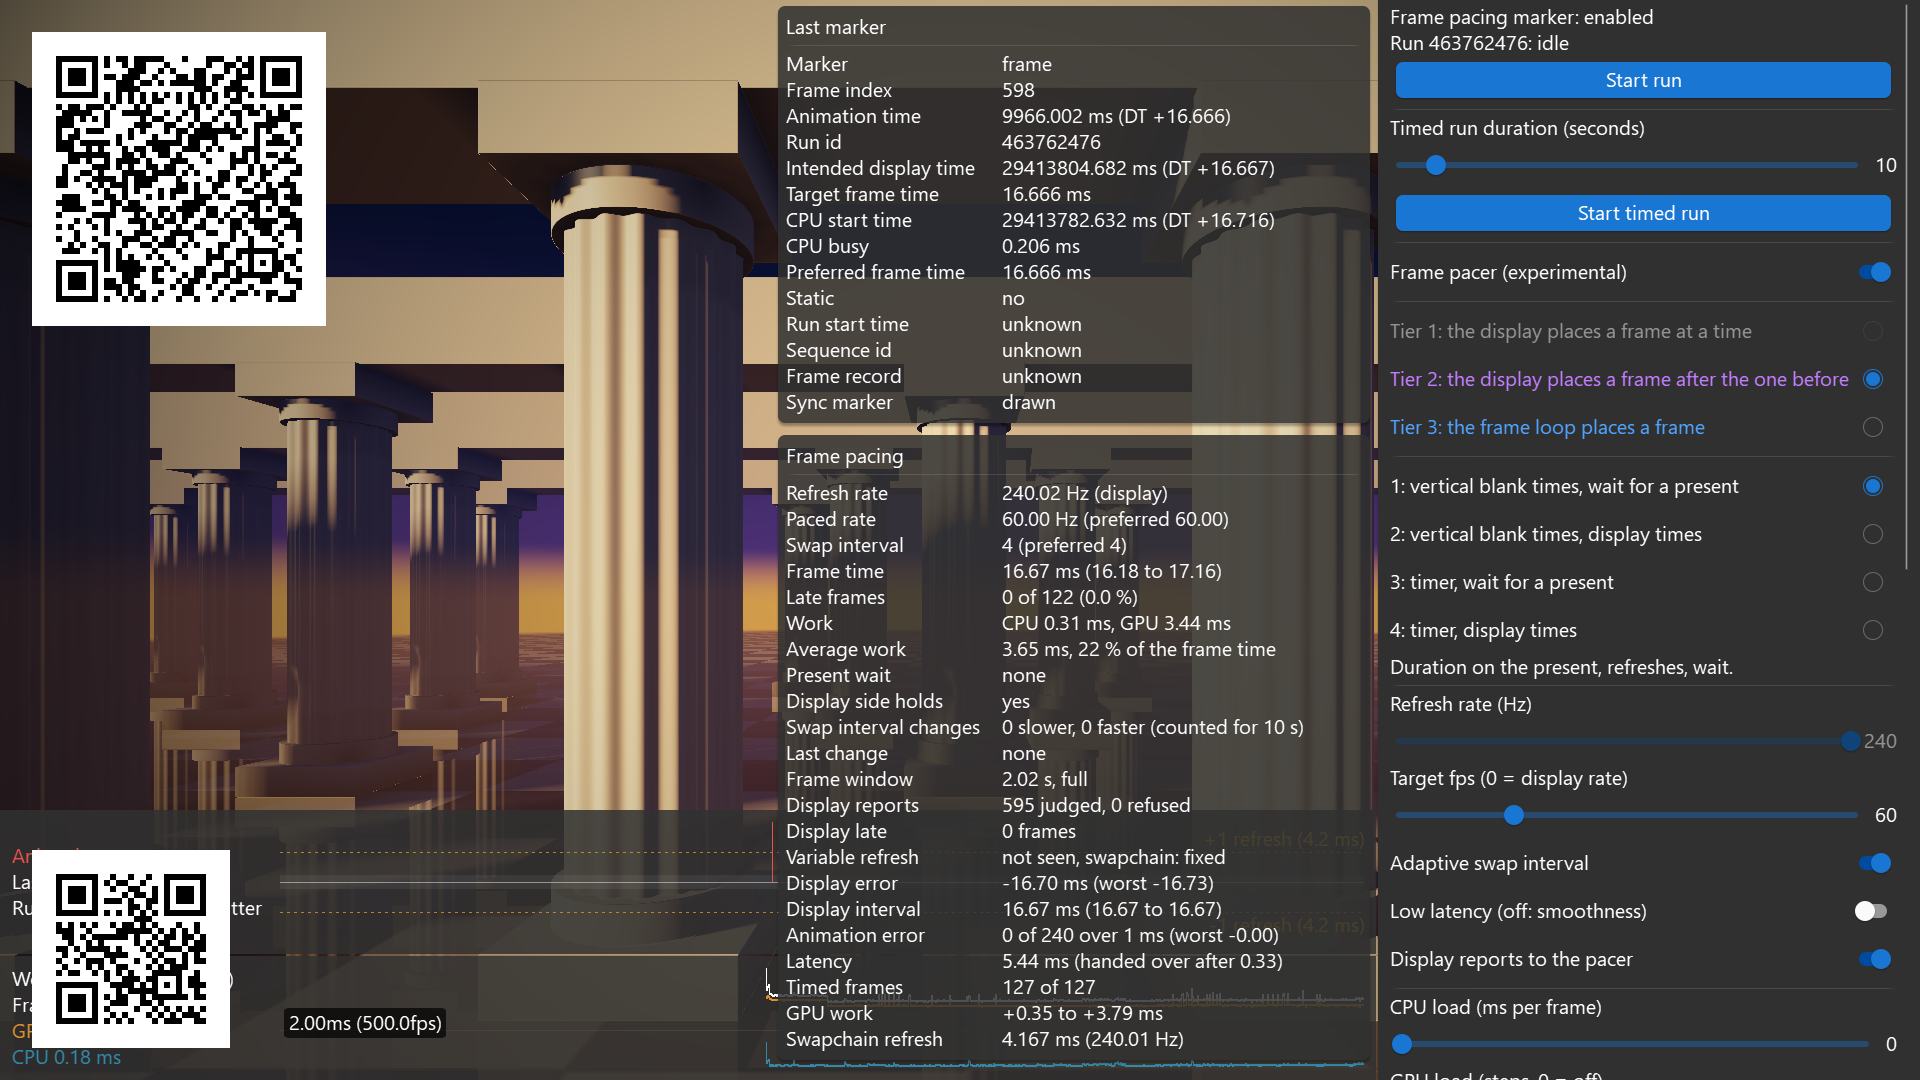
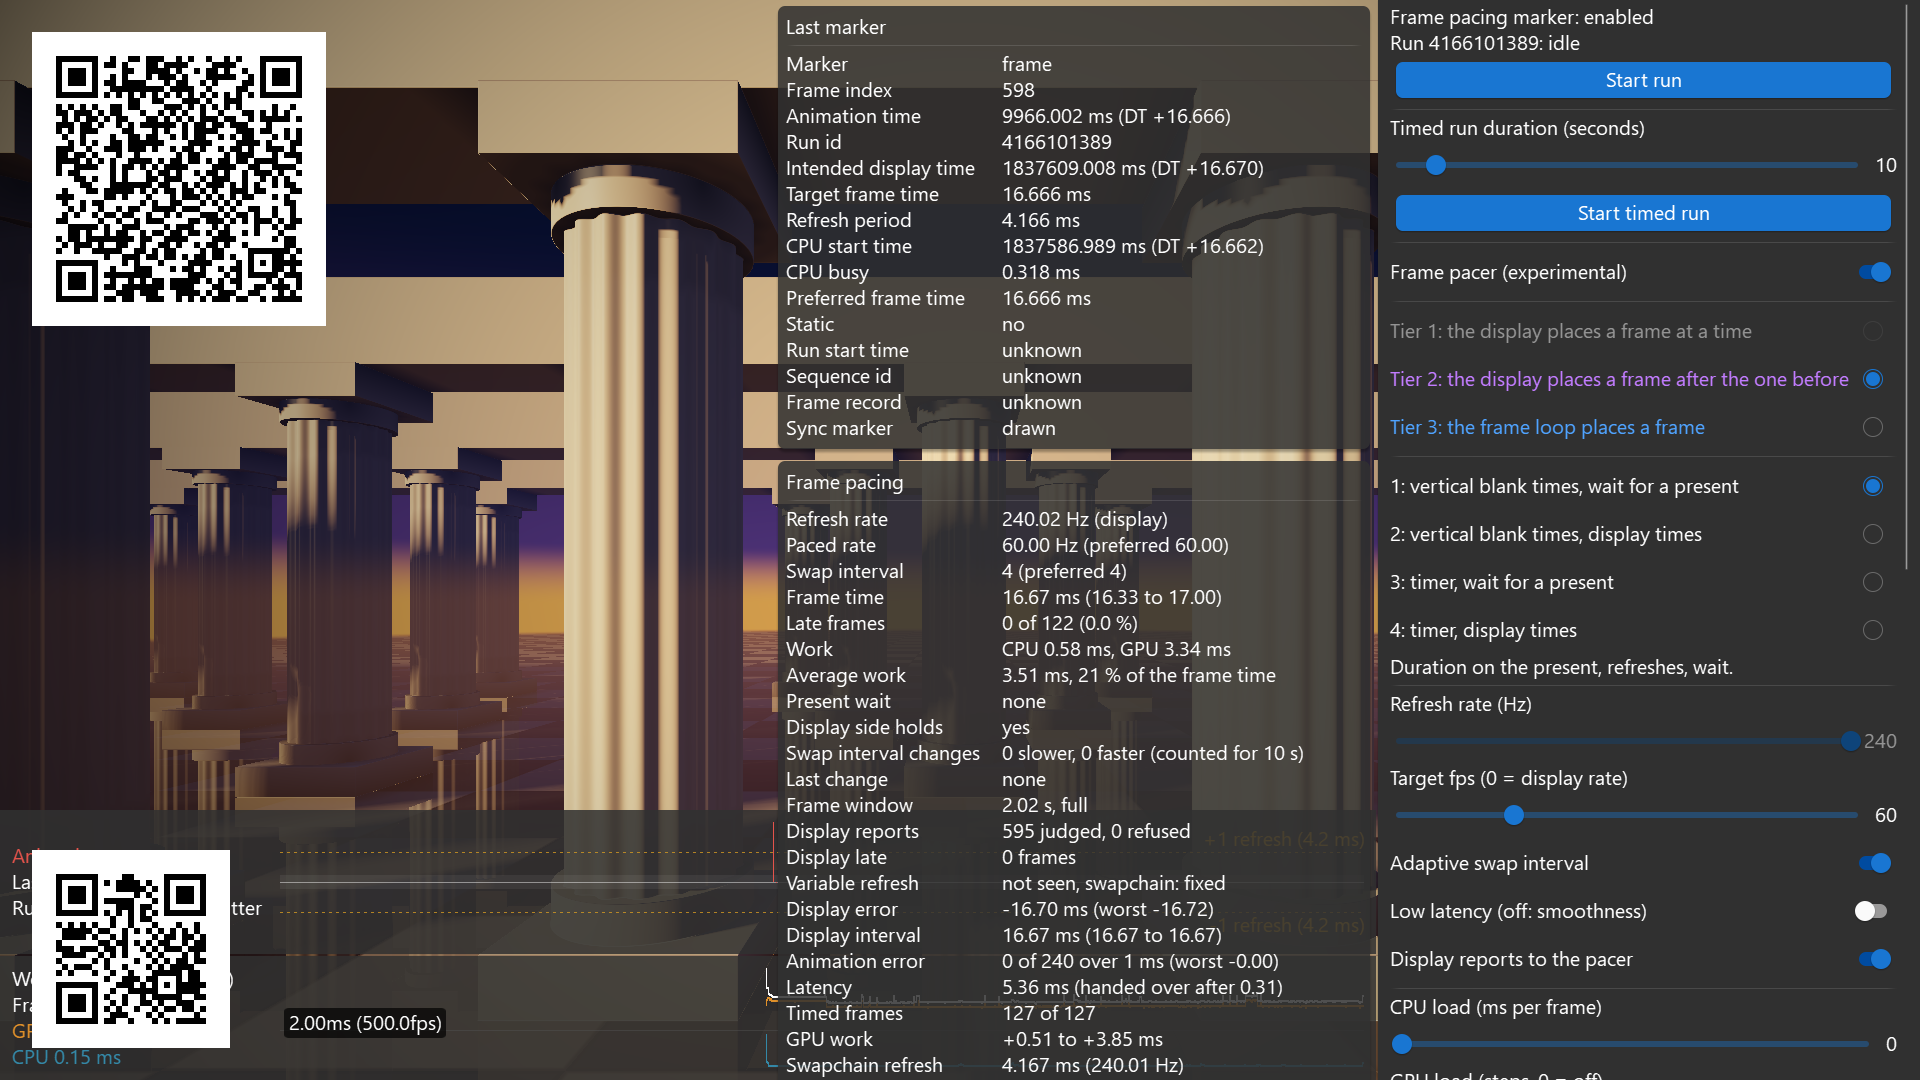
mb-framepacing 0.1.0-alpha.4: the marker carries the refresh period, which the trace logs, and the marker pictures of the Vulkan FramePacing sample are taken again
The recipe pins mb-framepacing at 885664c, the commit of the tags sdk-v0.1.0-alpha.4 and tools-v0.1.0-alpha.4. Its marker gained
the optional refresh period (frame and end markers are 61 bytes, start markers 85), so markers drawn with alpha.3 no longer decode
with the alpha.4 tools.

The marker service takes the refresh period as a new optional value of FramePacingFrameSchedule and passes it to the marker payload
(0 = unknown, the framework has no frame pacer). FramePacingMarkerInfo reports it, and the trace logs it twice: the frame record
of the SDK has the annotation markerRefreshPeriodNs, and the new frame value refreshPeriodNs sits next to targetFrameTimeNs and
preferredFrameTimeNs. The FramePacing sample gives the marker the period its pacer is on (FrameSchedule::RefreshPeriod, whether
it paces or not) and none under variable refresh; its marker panel shows it in the new row "Refresh period".

ExampleMarker.png and ExampleSyncMarker.png of the Vulkan FramePacing sample, which the README of mb-framepacing shows, are taken
again with the setup as before: 1920x1080 with the screenshot option, the frame pacer on at 60 fps, a GPU load of 256, the fractal
flight for the main marker and the scrolling hall with the sync marker drawn, the shot at frame 600. Both decode with the alpha.4
tools.

Checked on Windows: the library builds from the new pin, the Vulkan, GLES3 and GLES2 FramePacing samples build, the 166 unit tests
[…]

diff --git a/DemoFramework/FslDemoService/FramePacingMarker/Impl/UnitTest/source/FslDemoService/FramePacingMarker/Impl/UnitTest/Test_FramePacingFrameRecordUtil.cpp b/DemoFramework/FslDemoService/FramePacingMarker/Impl/UnitTest/source/FslDemoService/FramePacingMarker/Impl/UnitTest/Test_FramePacingFrameRecordUtil.cpp
@@ -66,6 +66,7 @@ TEST(Test_FramePacingFrameRecordUtil, ApplySchedule_AnimationTimeOnly)
   EXPECT_EQ(0, record.IntendedDisplayNanoseconds);
   EXPECT_EQ(0, record.TargetFrameNanoseconds);
   EXPECT_EQ(0, record.PreferredFrameNanoseconds);
+  EXPECT_EQ(0, record.RefreshPeriodNanoseconds);
   EXPECT_FALSE(record.Static);
   // The values that are not part of the schedule are untouched
   EXPECT_EQ(42u, record.FrameIndex);
@@ -83,6 +84,7 @@ TEST(Test_FramePacingFrameRecordUtil, ApplySchedule_AllValues)
   schedule.IntendedDisplayTime = NanosecondTickCount(335433);
   schedule.TargetFrameTime = NanosecondTimeSpan(33333333);
   schedule.PreferredFrameTime = NanosecondTimeSpan(16666667);
+  schedule.RefreshPeriod = NanosecondTimeSpan(16666667);
   schedule.Static = true;
 
   FramePacingFrameRecordUtil::ApplySchedule(record, schedule);
@@ -93,6 +95,7 @@ TEST(Test_FramePacingFrameRecordUtil, ApplySchedule_AllValues)
   EXPECT_EQ(335433, record.IntendedDisplayNanoseconds);
   EXPECT_EQ(33333333, record.TargetFrameNanoseconds);
   EXPECT_EQ(16666667, record.PreferredFrameNanoseconds);
+  EXPECT_EQ(16666667, record.RefreshPeriodNanoseconds);
   EXPECT_TRUE(record.Static);
 }
 
@@ -103,6 +106,7 @@ TEST(Test_FramePacingFrameRecordUtil, ApplySchedule_ReplacesPreviousPacingValues
   record.IntendedDisplayNanoseconds = 111;
   record.TargetFrameNanoseconds = 222;
   record.PreferredFrameNanoseconds = 333;
+  record.RefreshPeriodNanoseconds = 444;
   record.Static = true;
   FramePacingFrameSchedule schedule;
   schedule.AnimationTime = NanosecondTimeSpan(5000);
@@ -112,6 +116,7 @@ TEST(Test_FramePacingFrameRecordUtil, ApplySchedule_ReplacesPreviousPacingValues
   EXPECT_EQ(0, record.IntendedDisplayNanoseconds);
   EXPECT_EQ(0, record.TargetFrameNanoseconds);
   EXPECT_EQ(0, record.PreferredFrameNanoseconds);
+  EXPECT_EQ(0, record.RefreshPeriodNanoseconds);
   EXPECT_FALSE(record.Static);
 }
 
@@ -125,6 +130,7 @@ TEST(Test_FramePacingFrameRecordUtil, ApplySchedule_NotPositiveTimesAreUnknown)
   schedule.IntendedDisplayTime = NanosecondTickCount(-1);
   schedule.TargetFrameTime = NanosecondTimeSpan(0);
   schedule.PreferredFrameTime = NanosecondTimeSpan(-16666667);
+  schedule.RefreshPeriod = NanosecondTimeSpan(0);
 
   FramePacingFrameRecordUtil::ApplySchedule(record, schedule);
 
@@ -132,6 +138,7 @@ TEST(Test_FramePacingFrameRecordUtil, ApplySchedule_NotPositiveTimesAreUnknown)
   EXPECT_EQ(0, record.IntendedDisplayNanoseconds);
   EXPECT_EQ(0, record.TargetFrameNanoseconds);
   EXPECT_EQ(0, record.PreferredFrameNanoseconds);
+  EXPECT_EQ(0, record.RefreshPeriodNanoseconds);
 }
 
 
@@ -146,6 +153,7 @@ TEST(Test_FramePacingFrameRecordUtil, ApplySchedule_ANanosecondIsKept)
   schedule.IntendedDisplayTime = NanosecondTickCount(390293217625389);
   schedule.TargetFrameTime = NanosecondTimeSpan(4166389);
   schedule.PreferredFrameTime = NanosecondTimeSpan(4166389);
+  schedule.RefreshPeriod = NanosecondTimeSpan(4166389);
 
   FramePacingFrameRecordUtil::ApplySchedule(record, schedule);
 
@@ -155,6 +163,7 @@ TEST(Test_FramePacingFrameRecordUtil, ApplySchedule_ANanosecondIsKept)
   EXPECT_EQ(390293217625389, record.IntendedDisplayNanoseconds);
   EXPECT_EQ(4166389, record.TargetFrameNanoseconds);
   EXPECT_EQ(4166389, record.PreferredFrameNanoseconds);
+  EXPECT_EQ(4166389, record.RefreshPeriodNanoseconds);
 }
 
 

diff --git a/DemoFramework/FslDemoService/FramePacingMarker/Impl/source/FslDemoService/FramePacingMarker/Impl/FramePacingOverlay.cpp b/DemoFramework/FslDemoService/FramePacingMarker/Impl/source/FslDemoService/FramePacingMarker/Impl/FramePacingOverlay.cpp
@@ -116,6 +116,12 @@ namespace Fsl
       return FP::NanosecondTimeDuration::Min(FP::NanosecondTimeDuration::FromNanoseconds(nanoseconds), FM::Payload::MaxFrameTime);
     }
 
+    //! A refresh period as the marker takes it: zero if it is unknown, one that is longer is the longest refresh period a marker carries.
+    constexpr FP::NanosecondTimeDuration ToMarkerRefreshPeriod(const int64_t nanoseconds) noexcept
+    {
+      return FP::NanosecondTimeDuration::Min(FP::NanosecondTimeDuration::FromNanoseconds(nanoseconds), FM::Payload::MaxRefreshPeriod);
+    }
+
     int32_t ToInt32(const uint32_t value) noexcept
     {
       return value <= static_cast<uint32_t>(std::numeric_limits<int32_t>::max()) ? static_cast<int32_t>(value) : std::numeric_limits<int32_t>::max();
@@ -227,7 +233,7 @@ namespace Fsl
     const FM::Options options =
       record.CaptureHeightPx > 0 ? FM::Options::Recommended(windowHeightPx, record.CaptureHeightPx) : FM::Options(record.ModuleSizePx);
     const int32_t alignPx = CalcAlignPx(windowHeightPx, record.CaptureHeightPx);
-    // The framework has no frame pacer, so the intended display time, the target frame time and the preferred frame time are unknown (0)
+    // The framework has no frame pacer, so the intended display time, the target and preferred frame time and the refresh period are unknown (0)
     // unless the app supplied the values of the frame (IFramePacingMarkerService::SetFrameSchedule). A frame is flagged as static after
     // if the app said so, and as static before if the service found that it has the animation time of the frame before it.
     // The marker is the last thing drawn before the frame is presented, so the CPU busy time is measured now, unless the app gave the
@@ -249,6 +255,7 @@ namespace Fsl
                               FP::NanosecondTimeSpan(record.AnimationNanoseconds),
                               ToMarkerFrameTime(record.PreferredFrameNanoseconds),
                               ToMarkerFrameTime(record.TargetFrameNanoseconds),
+                              ToMarkerRefreshPeriod(record.RefreshPeriodNanoseconds),
                               FP::NanosecondTickCount(record.IntendedDisplayNanoseconds),
                               FP::NanosecondTickCount(record.CpuStartNanoseconds),
                               cpuBusy};
@@ -334,6 +341,10 @@ namespace Fsl
     if (payload.PreferredFrameTime() > FP::NanosecondTimeDuration())
     {
       markerInfo.PreferredFrameTime = ToNanosecondTimeSpan(payload.PreferredFrameTime());
+    }
+    if (payload.RefreshPeriod() > FP::NanosecondTimeDuration())
+    {
+      markerInfo.RefreshPeriod = ToNanosecondTimeSpan(payload.RefreshPeriod());
     }
     markerInfo.Static = record.Static;
     markerInfo.StaticBefore = record.StaticBefore;

diff --git a/DemoApps/Shared/FramePacing/source/Shared/FramePacing/FramePacingShared.cpp b/DemoApps/Shared/FramePacing/source/Shared/FramePacing/FramePacingShared.cpp
@@ -859,6 +859,11 @@ namespace Fsl
         frameSchedule.IntendedDisplayTime = m_schedule.IntendedDisplayTime;
         frameSchedule.TargetFrameTime = m_schedule.TargetFrameTime;
         frameSchedule.PreferredFrameTime = m_schedule.PreferredFrameTime;
+        // The marker has no refresh period under variable refresh
+        if (!m_variableRefreshSeen)
+        {
+          frameSchedule.RefreshPeriod = m_schedule.RefreshPeriod;
+        }
         // The CPU busy time of the marker is the pacer's to count. The marker is drawn after this, so this is the last thing of the
         // draw: what is left of the frame is the host drawing the marker.
         const TimeSpan cpuBusy = m_pacer->GetCpuBusyAt(m_timer.GetTimestamp());
@@ -2673,6 +2678,7 @@ namespace Fsl
     rStats.RunId = addStatsRow(*markerGrid, markerRow, "Run id");
     rStats.IntendedDisplayTime = addStatsRow(*markerGrid, markerRow, "Intended display time");
     rStats.TargetFrameTime = addStatsRow(*markerGrid, markerRow, "Target frame time");
+    rStats.RefreshPeriod = addStatsRow(*markerGrid, markerRow, "Refresh period");
     rStats.CpuStartTime = addStatsRow(*markerGrid, markerRow, "CPU start time");
     rStats.CpuBusyTime = addStatsRow(*markerGrid, markerRow, "CPU busy");
     rStats.PreferredFrameTime = addStatsRow(*markerGrid, markerRow, "Preferred frame time");
@@ -2949,8 +2955,8 @@ namespace Fsl
       rStats.Kind->SetContent("none drawn yet");
       for (UI::Label* pLabel :
            {rStats.FrameIndex.get(), rStats.AnimationTime.get(), rStats.RunId.get(), rStats.IntendedDisplayTime.get(), rStats.TargetFrameTime.get(),
-            rStats.CpuStartTime.get(), rStats.CpuBusyTime.get(), rStats.PreferredFrameTime.get(), rStats.Static.get(), rStats.RunStartTime.get(),
-            rStats.RunSequenceId.get(), rStats.FrameRecord.get(), rStats.SyncMarker.get()})
+            rStats.RefreshPeriod.get(), rStats.CpuStartTime.get(), rStats.CpuBusyTime.get(), rStats.PreferredFrameTime.get(), rStats.Static.get(),
+            rStats.RunStartTime.get(), rStats.RunSequenceId.get(), rStats.FrameRecord.get(), rStats.SyncMarker.get()})
       {
         pLabel->SetContent(UnknownValue);
       }
@@ -3016,6 +3022,14 @@ namespace Fsl
     else
     {
       rStats.TargetFrameTime->SetContent(UnknownValue);
+    }
+    if (info.RefreshPeriod.has_value())
+    {
+      SetFormattedContent(*rStats.RefreshPeriod, "{:.3f} ms", info.RefreshPeriod->TotalMilliseconds());
+    }
+    else
+    {
+      rStats.RefreshPeriod->SetContent(UnknownValue);
     }
     if (info.CpuStartTime.has_value() && m_markerStep.CpuStartStep.has_value())
     {

diff --git a/DemoFramework/FslDemoService/FramePacingMarker/Impl/source/FslDemoService/FramePacingMarker/Impl/FramePacingMarkerService.cpp b/DemoFramework/FslDemoService/FramePacingMarker/Impl/source/FslDemoService/FramePacingMarker/Impl/FramePacingMarkerService.cpp
@@ -535,6 +535,10 @@ namespace Fsl
       {
         m_trace->SetValue(m_logColumns.PreferredFrameTime, *schedule.PreferredFrameTime);
       }
+      if (schedule.RefreshPeriod.has_value())
+      {
+        m_trace->SetValue(m_logColumns.RefreshPeriod, *schedule.RefreshPeriod);
+      }
     }
   }
 
@@ -554,6 +558,7 @@ namespace Fsl
     rRecord.IntendedDisplayNanoseconds = 0;
     rRecord.TargetFrameNanoseconds = 0;
     rRecord.PreferredFrameNanoseconds = 0;
+    rRecord.RefreshPeriodNanoseconds = 0;
     rRecord.Static = false;
     if (m_frameSchedule.has_value())
     {
@@ -604,6 +609,11 @@ namespace Fsl
       if (markerInfo.PreferredFrameTime.has_value())
       {
         m_trace->SetValueAt(TraceFrameIndex(markerInfo.FrameIndex), m_logColumns.PreferredFrameTime, *markerInfo.PreferredFrameTime);
+      }
+      // A refresh period of the marker is the one that was given, or the longest one a marker carries
+      if (markerInfo.RefreshPeriod.has_value())
+      {
+        m_trace->SetValueAt(TraceFrameIndex(markerInfo.FrameIndex), m_logColumns.RefreshPeriod, *markerInfo.RefreshPeriod);
       }
       m_trace->SetValueAt(TraceFrameIndex(markerInfo.FrameIndex), m_logColumns.MarkerStatic, markerInfo.Static);
       m_trace->SetValueAt(TraceFrameIndex(markerInfo.FrameIndex), m_logColumns.MarkerStaticBefore, markerInfo.StaticBefore);
@@ -887,6 +897,9 @@ namespace Fsl
                                                       "The frame time the frame pacer of the app aims for in nanoseconds, as the marker carries it");
     m_logColumns.PreferredFrameTime = rLog.RegisterValue("preferredFrameTimeNs", TraceUnit::Nanoseconds,
                                                          "The frame time the app wants to run at in nanoseconds, as the marker carries it");
+    m_logColumns.RefreshPeriod =
+      rLog.RegisterValue("refreshPeriodNs", TraceUnit::Nanoseconds,
+                         "The refresh period of the display the app paces the frame for in nanoseconds, as the marker carries it");
     m_logColumns.MarkerDrawn = rLog.RegisterValue("markerDrawn", TraceUnit::Flag, "1 if the marker was drawn on the frame");
     m_logColumns.MarkerDraw = rLog.RegisterValue("markerDrawTicks", TraceUnit::Ticks, "When the marker was drawn, the last thing of the frame");
     m_logColumns.MarkerCpuBusy =

diff --git a/DemoFramework/FslDemoService/FramePacingMarker/include/FslDemoService/FramePacingMarker/FramePacingFrameSchedule.hpp b/DemoFramework/FslDemoService/FramePacingMarker/include/FslDemoService/FramePacingMarker/FramePacingFrameSchedule.hpp
@@ -49,6 +49,9 @@ namespace Fsl
     std::optional<NanosecondTimeSpan> TargetFrameTime;
     //! The frame time the application wants to run at
     std::optional<NanosecondTimeSpan> PreferredFrameTime;
+    //! The refresh period of the display the frame is paced for: what the app gives its frame pacer or what its swap chain reports.
+    //! Left empty under variable refresh.
+    std::optional<NanosecondTimeSpan> RefreshPeriod;
     //! True if nothing animates while this frame is on screen, for an app that knows it while it draws the frame (the marker's static
     //! after flag). A app that does not know needs to do nothing: the service flags a frame that has the animation time of the frame
     //! before it by itself (static before).

diff --git a/DemoApps/Shared/FramePacing/UnitTest/source/Shared/FramePacing/UnitTest/Test_SamplePacer.cpp b/DemoApps/Shared/FramePacing/UnitTest/source/Shared/FramePacing/UnitTest/Test_SamplePacer.cpp
@@ -124,6 +124,21 @@ TEST(TestSamplePacer, TimerPeriodOnly_NextFrameIsDueARefreshLater)
 }
 
 
+TEST(TestSamplePacer, BeginFrame_TheScheduleHasTheRefreshPeriodOfEveryKind)
+{
+  if (!SamplePacer::IsSupported())
+  {
+    return;
+  }
+  for (const SamplePacerKind kind : {SamplePacerKind::TimerPeriodOnly, SamplePacerKind::TimerWaitForPresent, SamplePacerKind::VBlankPeriodOnly,
+                                     SamplePacerKind::VBlankWaitForPresent})
+  {
+    SamplePacer pacer(Config(kind));
+    EXPECT_EQ(RefreshPeriod, pacer.BeginFrame(At(0)).RefreshPeriod);
+  }
+}
+
+
 TEST(TestSamplePacer, TimerPeriodOnly_PlanFrameChangesNothing)
 {
   if (!SamplePacer::IsSupported())

diff --git a/DemoFramework/FslDemoService/FramePacingMarker/include/FslDemoService/FramePacingMarker/FramePacingMarkerInfo.hpp b/DemoFramework/FslDemoService/FramePacingMarker/include/FslDemoService/FramePacingMarker/FramePacingMarkerInfo.hpp
@@ -54,6 +54,8 @@ namespace Fsl
     std::optional<NanosecondTimeSpan> CpuBusyTime;
     //! The frame time the application wants to run at (empty unless the app supplied it with SetFrameSchedule)
     std::optional<NanosecondTimeSpan> PreferredFrameTime;
+    //! The refresh period of the display the frame was paced for (empty unless the app supplied it with SetFrameSchedule)
+    std::optional<NanosecondTimeSpan> RefreshPeriod;
     //! True if the marker flagged the frame as static after: nothing animates while it is on screen (only set if the app supplied it with
     //! SetFrameSchedule)
     bool Static{false};

diff --git a/DemoFramework/FslDemoService/FramePacingMarker/Impl/include/FslDemoService/FramePacingMarker/Impl/FramePacingFrameRecord.hpp b/DemoFramework/FslDemoService/FramePacingMarker/Impl/include/FslDemoService/FramePacingMarker/Impl/FramePacingFrameRecord.hpp
@@ -48,6 +48,8 @@ namespace Fsl
     int64_t TargetFrameNanoseconds{0};
     //! The frame time the application wants to run at in nanoseconds, 0 if unknown.
     int64_t PreferredFrameNanoseconds{0};
+    //! The refresh period of the display the frame is paced for in nanoseconds, 0 if unknown (and under variable refresh).
+    int64_t RefreshPeriodNanoseconds{0};
     //! True if nothing animates while the frame is on screen (the app said so).
     bool Static{false};
     //! True if nothing animated while the frame before this one was on screen (the service found it has the same animation time).

diff --git a/DemoFramework/FslDemoService/FramePacingMarker/Impl/include/FslDemoService/FramePacingMarker/Impl/FramePacingFrameRecordUtil.hpp b/DemoFramework/FslDemoService/FramePacingMarker/Impl/include/FslDemoService/FramePacingMarker/Impl/FramePacingFrameRecordUtil.hpp
@@ -50,6 +50,7 @@ namespace Fsl::FramePacingFrameRecordUtil
     rRecord.IntendedDisplayNanoseconds = ToKnownNanoseconds(schedule.IntendedDisplayTime);
     rRecord.TargetFrameNanoseconds = ToKnownNanoseconds(schedule.TargetFrameTime);
     rRecord.PreferredFrameNanoseconds = ToKnownNanoseconds(schedule.PreferredFrameTime);
+    rRecord.RefreshPeriodNanoseconds = ToKnownNanoseconds(schedule.RefreshPeriod);
     rRecord.Static = schedule.Static;
   }
 

diff --git a/DemoApps/Shared/FramePacing/source/Shared/FramePacing/SamplePacer.cpp b/DemoApps/Shared/FramePacing/source/Shared/FramePacing/SamplePacer.cpp
@@ -598,6 +598,7 @@ namespace Fsl
     schedule.IntendedDisplayTime = ToFrameworkNanoseconds(src.IntendedDisplayTime);
     schedule.TargetFrameTime = ToFrameworkNanoseconds(src.TargetFrameTime);
     schedule.PreferredFrameTime = ToFrameworkNanoseconds(src.PreferredFrameTime);
+    schedule.RefreshPeriod = ToFrameworkNanoseconds(src.RefreshPeriod);
     schedule.Change = ToSamplePacerChange(src.Change);
     return schedule;
   }

diff --git a/DemoApps/Shared/FramePacing/include/Shared/FramePacing/SamplePacer.hpp b/DemoApps/Shared/FramePacing/include/Shared/FramePacing/SamplePacer.hpp
@@ -134,6 +134,8 @@ namespace Fsl
     NanosecondTimeSpan TargetFrameTime;
     //! The frame time the app wants: the swap interval of the target frame rate as a time
     NanosecondTimeSpan PreferredFrameTime;
+    //! The refresh period the pacer is on, whether the app paces or not
+    NanosecondTimeSpan RefreshPeriod;
     SamplePacerChange Change{SamplePacerChange::Unchanged};
   };
 

diff --git a/DemoApps/Shared/FramePacing/include/Shared/FramePacing/FramePacingShared.hpp b/DemoApps/Shared/FramePacing/include/Shared/FramePacing/FramePacingShared.hpp
@@ -119,6 +119,7 @@ namespace Fsl
       std::shared_ptr<UI::Label> RunId;
       std::shared_ptr<UI::Label> IntendedDisplayTime;
       std::shared_ptr<UI::Label> TargetFrameTime;
+      std::shared_ptr<UI::Label> RefreshPeriod;
       std::shared_ptr<UI::Label> CpuStartTime;
       std::shared_ptr<UI::Label> CpuBusyTime;
       std::shared_ptr<UI::Label> PreferredFrameTime;
